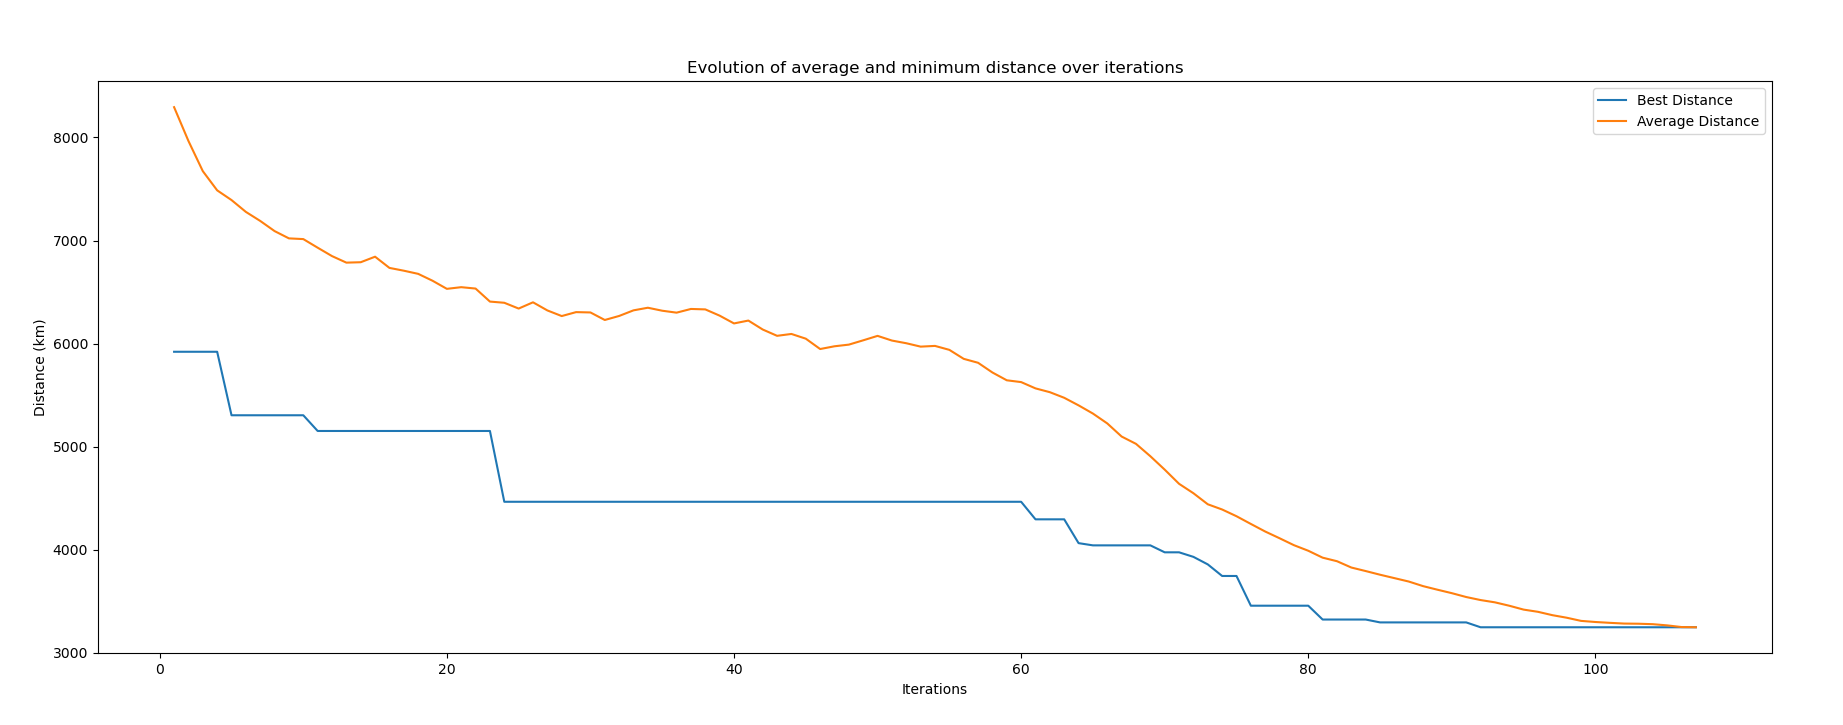
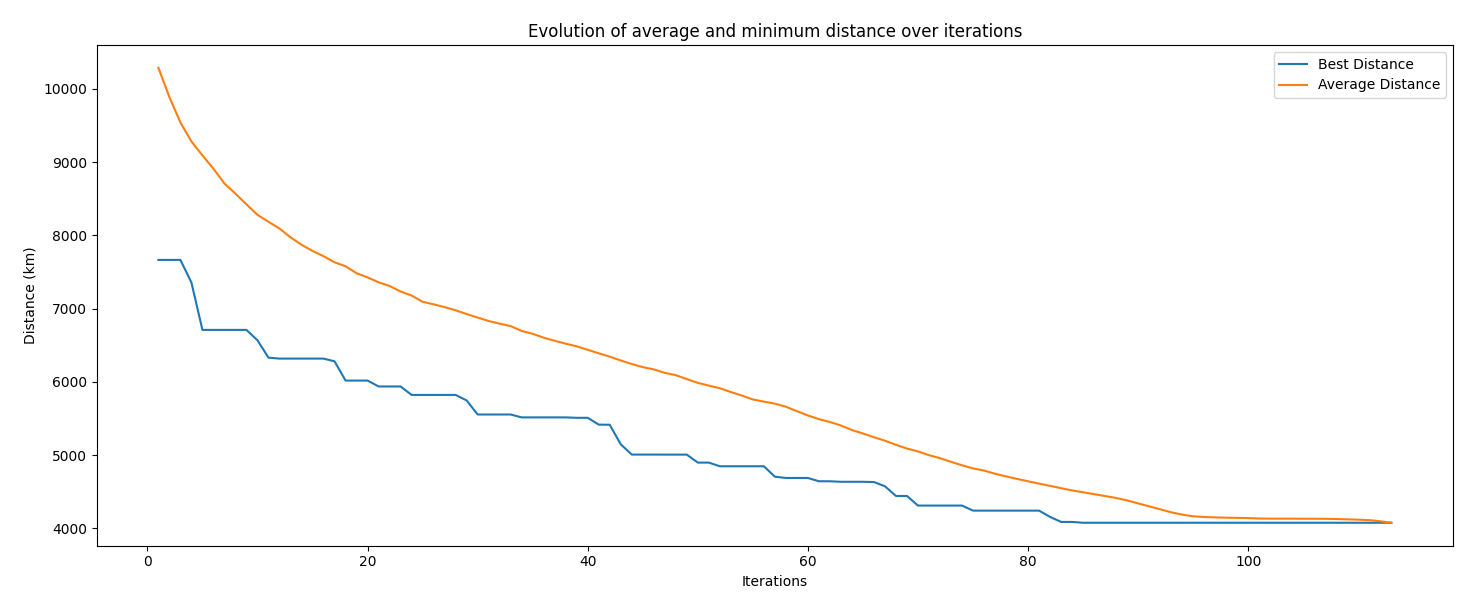
Correction énorme : oubli de changement de paramètres du GUI Changement des paramètres par défaut Ajout de gifs au readme

diff --git a/gui/StartPage.py b/gui/StartPage.py
@@ -3,8 +3,8 @@ from tkinter import StringVar
 import tkinter.ttk as ttk
 class StartPage(ctk.CTkFrame):
     def __init__(self, master=None, to_main_window=None, set_iterations=None, set_nbCities=None, 
-                 update_stats=None, mutation_rate=0.05, population_size=500, country='France', 
-                 nb_routes=1, nb_iterations = 500, nb_cities = 17, **kwargs):
+                 update_stats=None, mutation_rate=0.005, population_size=700, country='France', 
+                 nb_routes=1, nb_iterations = 1000, nb_cities = 25, **kwargs):
         super().__init__(master, **kwargs)
 
         for i in range(5) :
@@ -35,8 +35,8 @@ class TitleFrame(ctk.CTkFrame):
         self.title.place(relx=0.5, rely=0.5, anchor="center")
 
 class MainFrame(ctk.CTkFrame):
-    def __init__(self, master, set_iterations=None, set_nbCities=None, update_stats=None, mutation_rate=0.05, 
-                 population_size=500, country='France', nb_routes=1, nb_iterations = 500, nb_cities = 17, **kwargs):
+    def __init__(self, master, set_iterations=None, set_nbCities=None, update_stats=None, mutation_rate=0.005, 
+                 population_size=700, country='France', nb_routes=1, nb_iterations = 1000, nb_cities = 25, **kwargs):
         self.set_iterations = set_iterations
         self.set_nbCities = set_nbCities
         self.update_stats = update_stats
@@ -120,7 +120,7 @@ class MainFrame(ctk.CTkFrame):
             else:
                 raise ValueError
         except ValueError:
-            return 0.05  # default value
+            return 0.005  # default value
 
     def get_population_size(self):
        try:
@@ -130,7 +130,7 @@ class MainFrame(ctk.CTkFrame):
            else:
                raise ValueError
        except ValueError:
-           return 500  # default value
+           return 700  # default value
 
     #? Méthodes associées aux Combobox
     def get_country(self):

diff --git a/genetic_algorithm/main.py b/genetic_algorithm/main.py
@@ -49,7 +49,7 @@ def execute(nb_iterations, canvas, fig, gax, mutation_rate, population_size,
     # Formattage des donnéees pour correspondre au pays sélectionné
     city_list, data_city = dataProcessing(country, nb_cities)
     # Création d'une instance de l'algo avec les paramètres
-    algo = GeneticAlgorithm(mutation_rate = 0.04, population_size = 100, city_list = city_list, country = country, data_city = data_city)
+    algo = GeneticAlgorithm(mutation_rate=mutation_rate, population_size = population_size, city_list = city_list, country = country, data_city = data_city)
     #  Création des listes pour les graphiques de statistiques
     best_list = []
     average_list = []

diff --git a/gui/app.py b/gui/app.py
@@ -22,12 +22,12 @@ class App(ctk.CTk):
     def __init__(self):
         super().__init__()
         #! Initialisation des paramètres par défaut
-        self.mutation_rate = 0.05
-        self.population_size = 500
+        self.mutation_rate = 0.005
+        self.population_size = 700
         self.country = 'France'
         self.nb_routes = 1
-        self.nb_iterations = 500
-        self.nb_cities = 17
+        self.nb_iterations = 1000
+        self.nb_cities = 25
 
         self.title("Algo génétique")
         self.geometry("1400x1000")

diff --git a/README.md b/README.md
@@ -1,4 +1,5 @@
 # Genetic TSP Solver<!-- omit from toc -->
+![Gif of an execution with the maximum amount of cities in France](assets\France_max_running.gif "Gif of an execution with France, 36 cities, 0.005 mutation rate and 1 000 population size")
 
 - [Introduction](#introduction)
   - [About the Traveling Salesman Problem](#about-the-traveling-salesman-problem)
@@ -22,14 +23,15 @@ The TSP is an NP-hard problem.
 ## Features
 ### TSP Solver
 We are using a genetic algorithm to efficiently solve the TSP.
-![Screenshot of an execution](assets/France_example_screenshot.png "Screenshot of an execution with default parameters, except the number of cities (20)")
+![Screenshot of an execution](assets/France_example_screenshot.png "Screenshot of an execution with default parameters")
 
 ### Interactive GUI for real-time visualization
 A user interface in which the user is able to change the algorithm's parameters and to view a given number of smallest paths for each iteration. 
+![Gif of an execution](assets\Czechia_running.gif "Gif of an execution with Czechia, 25 cities, 0.005 mutation rate and 1 000 population size")
 
 ### Performance analysis at a glance
 Post-excution, the application displays a graph showing the evolution of average and best distance over the iterations.
-![Screenshot of the results of the execution](assets/France_results_screenshot.png "Screenshot of the results of previous execution")
+![Screenshot of the results of the default France execution](assets/France_results_screenshot.png "Screenshot of the results of the default France execution")
 
 ### Application to Real Cartographical Data
 We integrate real cartographical data from the [*Natural Earth*](https://www.naturalearthdata.com/downloads/10m-cultural-vectors/10m-admin-0-countries/) dataset using geopandas to accurately depict countries. The application also utilizes a `.csv` file with topographical data (Country, City name, Longitude, Latitude) to map cities accurately.
@@ -45,6 +47,7 @@ To ensure the application runs smoothly, install the following dependencies:
   
 ### Running the Application
 In order to use the application with the GUI, simply execute [`app.py`](gui/app.py) from the gui folder :
+
 **For Windows :** 
 ```
 python gui\app.py
@@ -56,6 +59,8 @@ python gui/app.py
 
 Otherwise, you can still use a legacy version without the GUI, in which you can't modify the parameters without modifying them directly in the code. 
 To do so, just run [`main.py`](genetic_algorithm/main.py) from the genetic_algorithm folder :
+
+**For Windows :** 
 ```
 python genetic_algorithm\main.py
 ```
